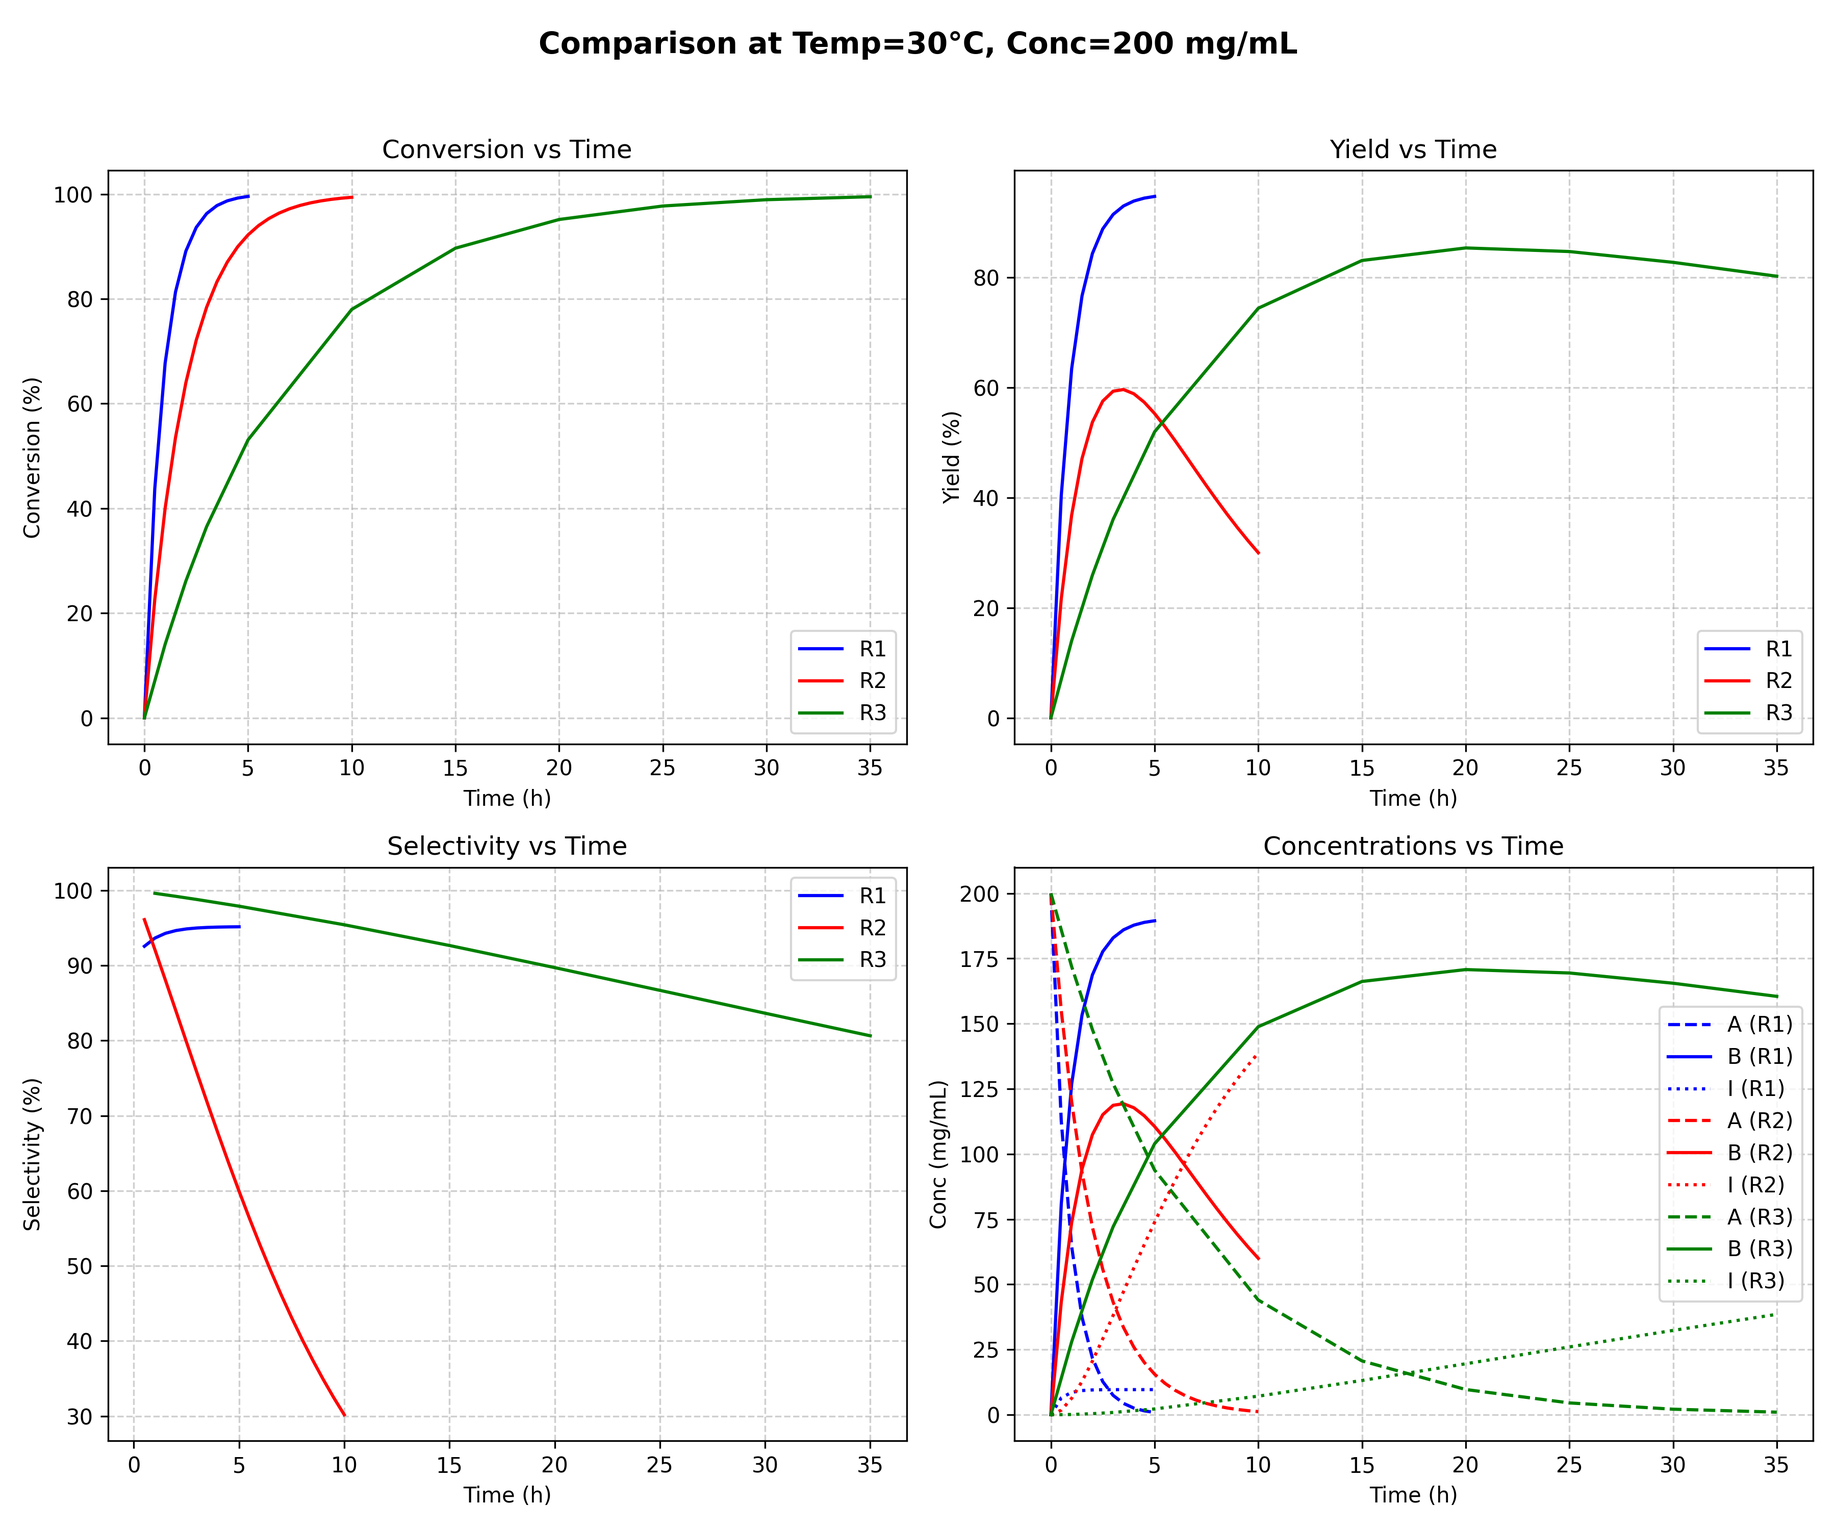
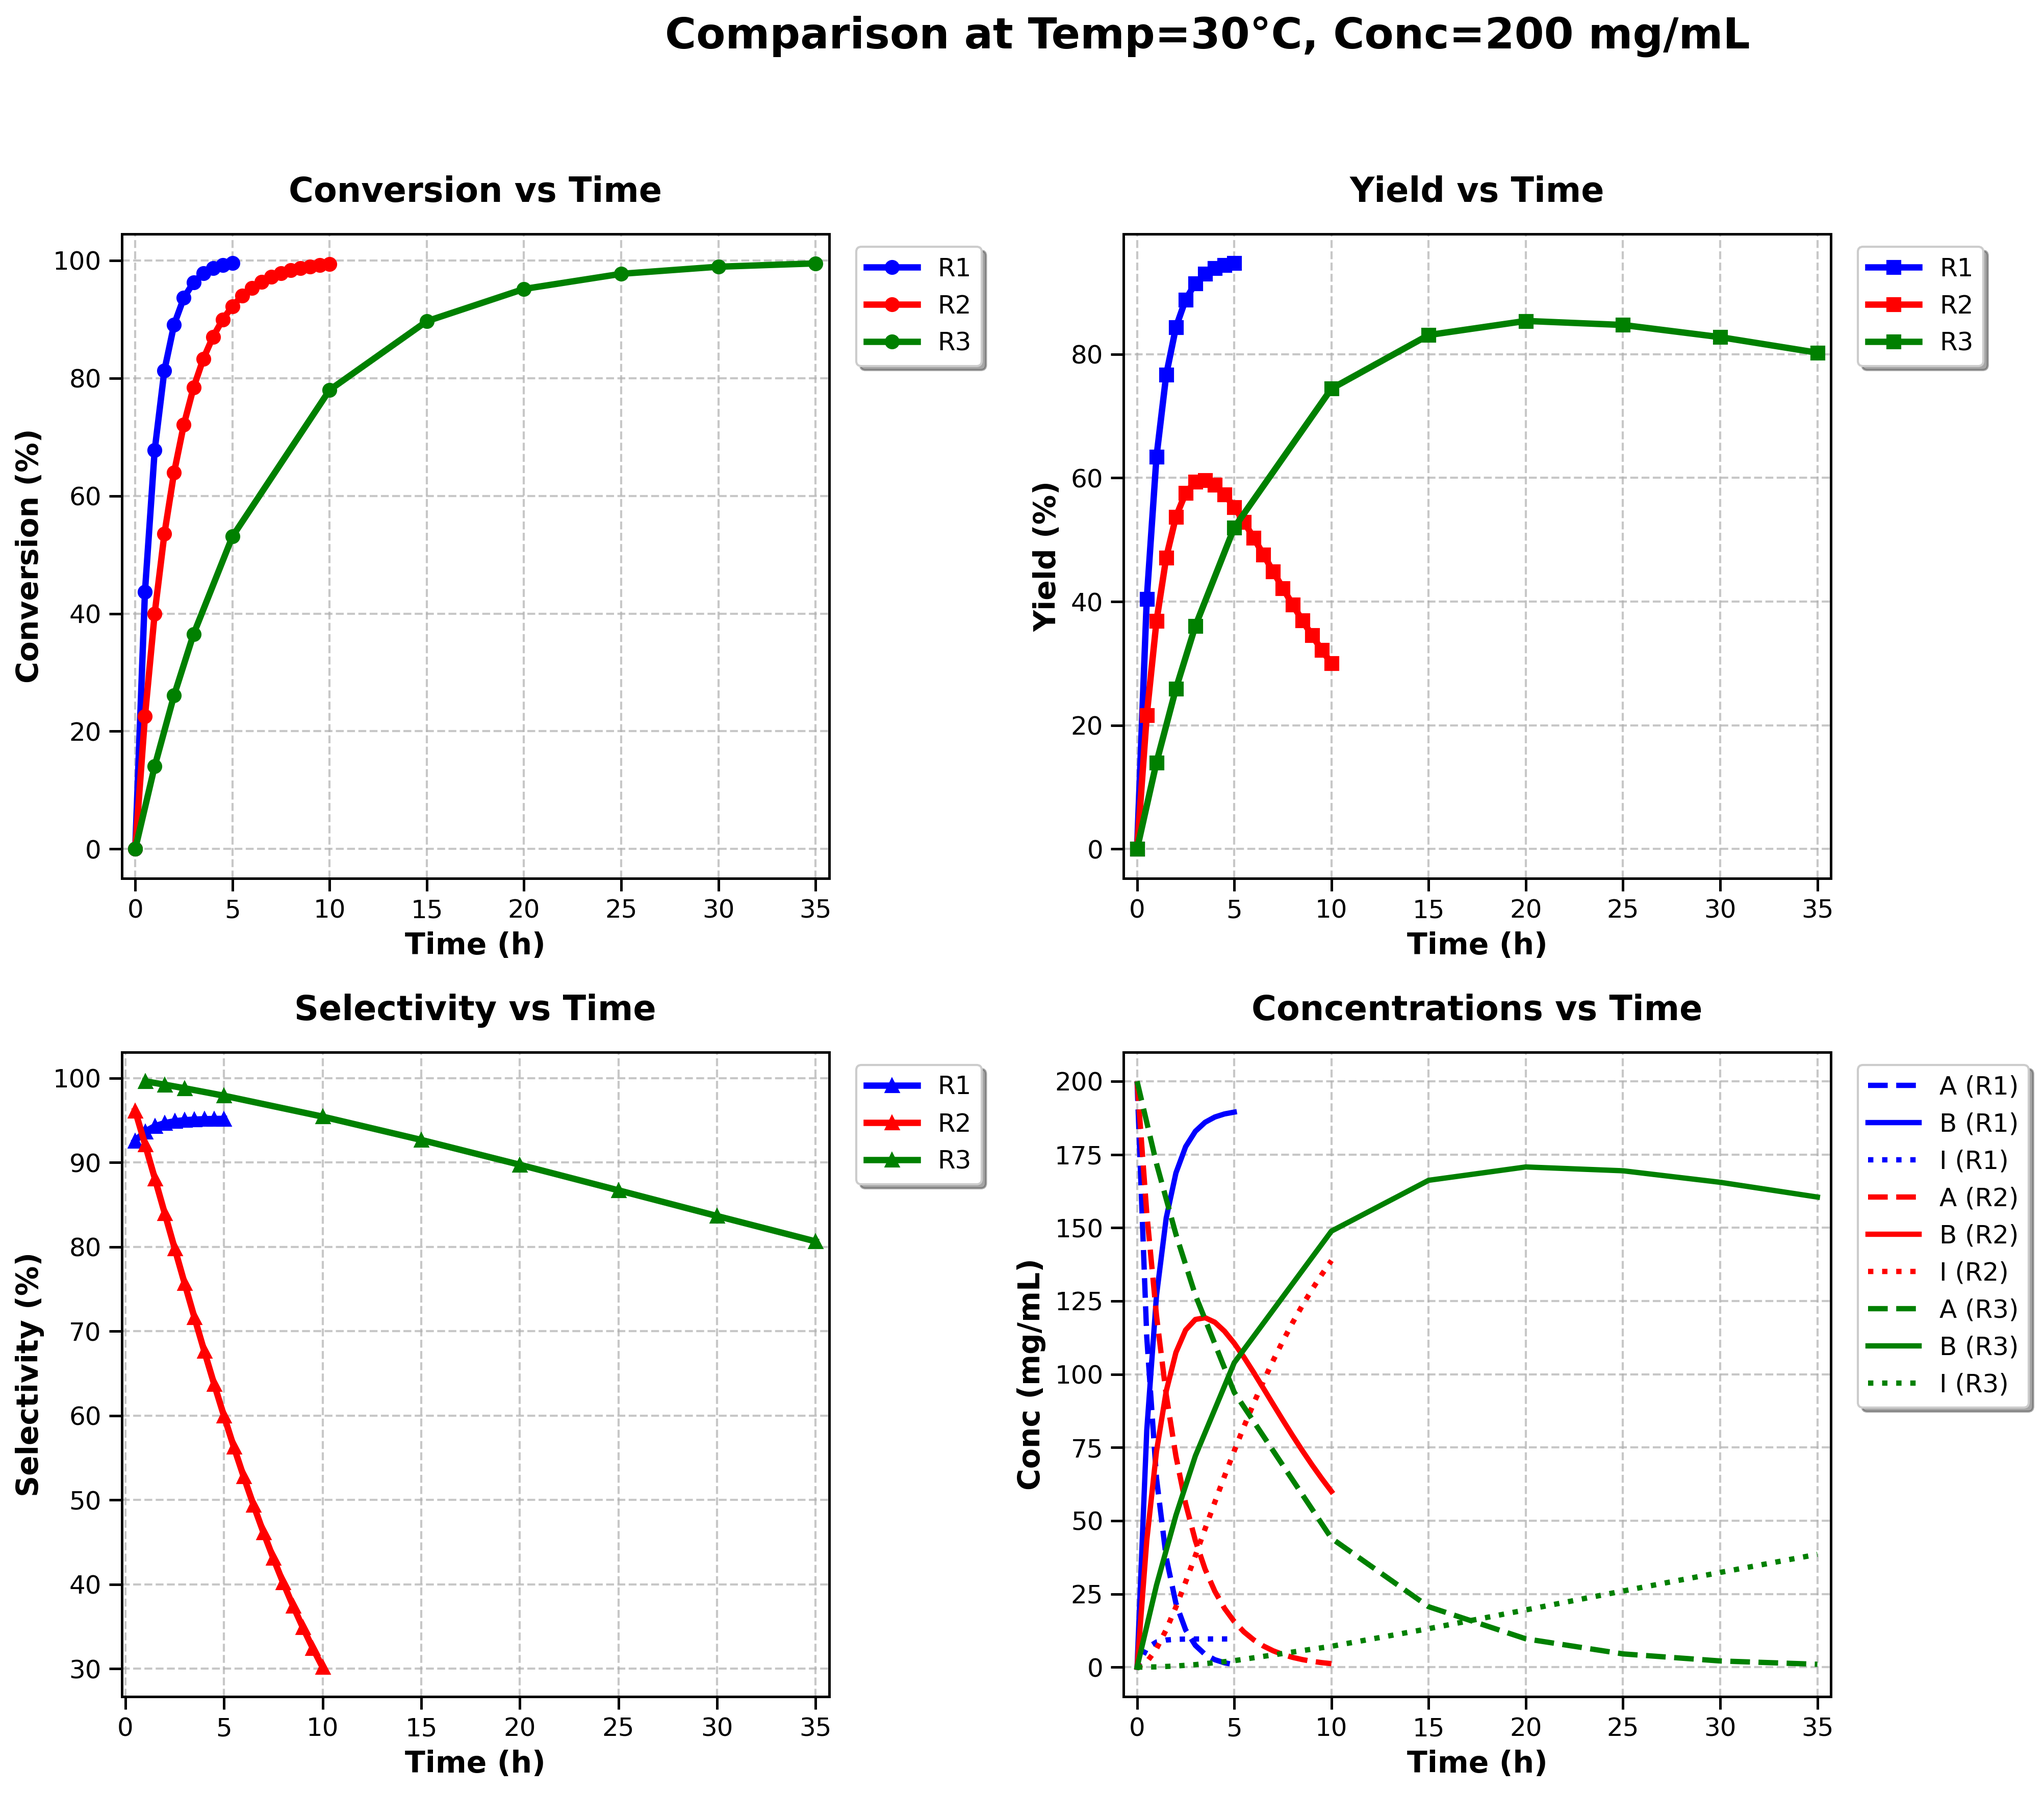
Enhanced visualization readability - increased font sizes, larger graphs, and improved styling
- Increased base font size from 12-14 to 16-18 for better readability
- Enlarged graph dimensions: individual plots (12x10  16x12), comprehensive plots (24x16  28x20)
- Enhanced line thickness (1.5  3.0) and added markers for better data visibility
- Improved legends with shadows, fancy boxes, and better positioning
- Added professional styling: bold fonts, consistent colors, enhanced grids
- Updated all comparison plots (15 total) with new readability standards
- Upgraded visualization exports to 300 DPI with bbox_inches='tight' for presentations
- Maintained consistent color scheme: R1=Green, R2=Red, R3=Blue across all visualizations

diff --git a/plot_reactions.py b/plot_reactions.py
@@ -2,6 +2,19 @@ import pandas as pd
 import matplotlib.pyplot as plt
 import os
 
+# Set matplotlib parameters for better readability
+plt.rcParams.update({
+    'font.size': 14,           # Base font size
+    'axes.titlesize': 16,      # Subplot titles
+    'axes.labelsize': 14,      # Axis labels
+    'xtick.labelsize': 12,     # X-axis tick labels
+    'ytick.labelsize': 12,     # Y-axis tick labels
+    'legend.fontsize': 12,     # Legend
+    'figure.titlesize': 18,    # Main title
+    'lines.linewidth': 2.5,    # Line thickness
+    'grid.linewidth': 1.0,     # Grid line thickness
+    'axes.linewidth': 1.2      # Axes border thickness
+})
 
 # COMPARISON PLOTS
 
@@ -28,8 +41,8 @@ colors = {"R1":"blue", "R2":"red", "R3":"green"}
 pairs = sorted(set(zip(data["R1"]["Temp_C"], data["R1"]["A0_mgml"])))
 
 for (T, C0) in pairs:
-    fig, axes = plt.subplots(2, 2, figsize=(12, 10))
-    fig.suptitle(f"Comparison at Temp={T}°C, Conc={C0} mg/mL", fontsize=14, fontweight="bold")
+    fig, axes = plt.subplots(2, 2, figsize=(16, 12))  # Increased from (12, 10)
+    fig.suptitle(f"Comparison at Temp={T}°C, Conc={C0} mg/mL", fontsize=20, fontweight="bold", y=0.98)
 
     # Loop reactions
     for rxn in ["R1","R2","R3"]:
@@ -41,37 +54,53 @@ for (T, C0) in pairs:
         
         # Conversion vs Time
         axes[0,0].plot(subset["Time_h"], subset["Conversion_pct"], 
-                       label=rxn, color=colors[rxn])
+                       label=rxn, color=colors[rxn], linewidth=3, marker='o', markersize=6)
         
         # Yield vs Time
         axes[0,1].plot(subset["Time_h"], subset["Yield_pct"], 
-                       label=rxn, color=colors[rxn])
+                       label=rxn, color=colors[rxn], linewidth=3, marker='s', markersize=6)
         
         # Selectivity vs Time
         axes[1,0].plot(subset["Time_h"], subset["Selectivity_pct"], 
-                       label=rxn, color=colors[rxn])
+                       label=rxn, color=colors[rxn], linewidth=3, marker='^', markersize=6)
         
         # Concentrations vs Time (A, B, I)
         axes[1,1].plot(subset["Time_h"], subset["A_mgml"], 
-                       label=f"A ({rxn})", linestyle="--", color=colors[rxn])
+                       label=f"A ({rxn})", linestyle="--", color=colors[rxn], linewidth=2.5)
         axes[1,1].plot(subset["Time_h"], subset["B_mgml"], 
-                       label=f"B ({rxn})", linestyle="-", color=colors[rxn])
+                       label=f"B ({rxn})", linestyle="-", color=colors[rxn], linewidth=2.5)
         axes[1,1].plot(subset["Time_h"], subset["I_mgml"], 
-                       label=f"I ({rxn})", linestyle=":", color=colors[rxn])
+                       label=f"I ({rxn})", linestyle=":", color=colors[rxn], linewidth=2.5)
     
-    # Titles & labels
-    axes[0,0].set_title("Conversion vs Time"); axes[0,0].set_xlabel("Time (h)"); axes[0,0].set_ylabel("Conversion (%)")
-    axes[0,1].set_title("Yield vs Time"); axes[0,1].set_xlabel("Time (h)"); axes[0,1].set_ylabel("Yield (%)")
-    axes[1,0].set_title("Selectivity vs Time"); axes[1,0].set_xlabel("Time (h)"); axes[1,0].set_ylabel("Selectivity (%)")
-    axes[1,1].set_title("Concentrations vs Time"); axes[1,1].set_xlabel("Time (h)"); axes[1,1].set_ylabel("Conc (mg/mL)")
+    # Titles & labels with larger fonts
+    axes[0,0].set_title("Conversion vs Time", fontsize=16, fontweight='bold', pad=15)
+    axes[0,0].set_xlabel("Time (h)", fontsize=14, fontweight='bold')
+    axes[0,0].set_ylabel("Conversion (%)", fontsize=14, fontweight='bold')
     
-    # Legends
+    axes[0,1].set_title("Yield vs Time", fontsize=16, fontweight='bold', pad=15)
+    axes[0,1].set_xlabel("Time (h)", fontsize=14, fontweight='bold')
+    axes[0,1].set_ylabel("Yield (%)", fontsize=14, fontweight='bold')
+    
+    axes[1,0].set_title("Selectivity vs Time", fontsize=16, fontweight='bold', pad=15)
+    axes[1,0].set_xlabel("Time (h)", fontsize=14, fontweight='bold')
+    axes[1,0].set_ylabel("Selectivity (%)", fontsize=14, fontweight='bold')
+    
+    axes[1,1].set_title("Concentrations vs Time", fontsize=16, fontweight='bold', pad=15)
+    axes[1,1].set_xlabel("Time (h)", fontsize=14, fontweight='bold')
+    axes[1,1].set_ylabel("Conc (mg/mL)", fontsize=14, fontweight='bold')
+    
+    # Enhanced legends and grids
     for ax in axes.flatten():
-        ax.legend()
-        ax.grid(True, linestyle="--", alpha=0.6)
+        ax.legend(fontsize=12, frameon=True, fancybox=True, shadow=True, 
+                 bbox_to_anchor=(1.02, 1), loc='upper left')
+        ax.grid(True, linestyle="--", alpha=0.7, linewidth=1)
+        ax.tick_params(axis='both', which='major', labelsize=12, width=1.2, length=6)
+        # Add some padding to the axes
+        ax.margins(x=0.02, y=0.05)
     
-    plt.tight_layout(rect=[0, 0, 1, 0.96])
-    plt.savefig(f"{outdir}/Comparison_T{T}_C{C0}.png", dpi=300)
+    plt.tight_layout(rect=[0, 0, 0.85, 0.95])  # Adjusted for larger legends
+    plt.savefig(f"{outdir}/Comparison_T{T}_C{C0}.png", dpi=300, bbox_inches='tight', 
+                facecolor='white', edgecolor='none')
     plt.close()
 
 print(f"## All plots saved in folder: {outdir}")

diff --git a/visualize_improved_results.py b/visualize_improved_results.py
@@ -14,23 +14,26 @@ df_overall = pd.read_excel('Comprehensive_Reaction_Analysis.xlsx', sheet_name='O
 reaction_order = ['R1', 'R2', 'R3']
 df_overall = df_overall.set_index('reaction').reindex(reaction_order).reset_index()
 
-# Set global font sizes
+# Set global font sizes for better readability
 plt.rcParams.update({
-    'font.size': 14,
-    'axes.titlesize': 16,
-    'axes.labelsize': 14,
-    'xtick.labelsize': 12,
-    'ytick.labelsize': 12,
-    'legend.fontsize': 12,
-    'figure.titlesize': 18
+    'font.size': 16,           # Increased base font size
+    'axes.titlesize': 18,      # Increased subplot titles
+    'axes.labelsize': 16,      # Increased axis labels
+    'xtick.labelsize': 14,     # Increased X-axis tick labels
+    'ytick.labelsize': 14,     # Increased Y-axis tick labels
+    'legend.fontsize': 14,     # Increased legend
+    'figure.titlesize': 22,    # Increased main title
+    'lines.linewidth': 3.0,    # Thicker lines
+    'grid.linewidth': 1.2,     # Thicker grid lines
+    'axes.linewidth': 1.5      # Thicker axes border
 })
 
 # ========================================
 # IMAGE 1: ALL 6 COMPARISON PLOTS
 # ========================================
 
-fig1 = plt.figure(figsize=(24, 16))
-fig1.suptitle('COMPREHENSIVE REACTION PERFORMANCE COMPARISON', fontsize=20, fontweight='bold', y=0.95)
+fig1 = plt.figure(figsize=(28, 20))  # Increased from (24, 16)
+fig1.suptitle('COMPREHENSIVE REACTION PERFORMANCE COMPARISON', fontsize=24, fontweight='bold', y=0.95)
 
 # Define consistent colors for R1, R2, R3
 colors = ['#2E8B57', '#CD853F', '#B22222']  # Green, Orange, Red
@@ -39,28 +42,30 @@ reactions = df_overall['reaction'].tolist()
 # 1. Overall Score Comparison
 ax1 = plt.subplot(2, 3, 1)
 scores = df_overall['overall_score'].tolist()
-bars = plt.bar(reactions, scores, color=colors, width=0.6)
-plt.title('Overall Performance Scores\n(Higher = Better)', fontweight='bold', fontsize=16)
-plt.ylabel('Score', fontsize=14)
+bars = plt.bar(reactions, scores, color=colors, width=0.6, edgecolor='black', linewidth=2)
+plt.title('Overall Performance Scores\n(Higher = Better)', fontweight='bold', fontsize=18, pad=20)
+plt.ylabel('Score', fontsize=16, fontweight='bold')
 plt.ylim(0, max(scores) * 1.2)
+plt.grid(True, alpha=0.3, axis='y')
 
-# Add score values on bars
+# Add score values on bars with larger font
 for bar, score in zip(bars, scores):
     plt.text(bar.get_x() + bar.get_width()/2, bar.get_height() + 0.05, 
-             f'{score:.3f}', ha='center', va='bottom', fontweight='bold', fontsize=12)
+             f'{score:.3f}', ha='center', va='bottom', fontweight='bold', fontsize=14)
 
 # 2. Selectivity Comparison
 ax2 = plt.subplot(2, 3, 2)
 selectivities = df_overall['avg_selectivity'].tolist()
-bars = plt.bar(reactions, selectivities, color=colors, width=0.6)
-plt.title('Average Selectivity\n(Priority #1)', fontweight='bold', fontsize=16)
-plt.ylabel('Selectivity (%)', fontsize=14)
+bars = plt.bar(reactions, selectivities, color=colors, width=0.6, edgecolor='black', linewidth=2)
+plt.title('Average Selectivity\n(Priority #1)', fontweight='bold', fontsize=18, pad=20)
+plt.ylabel('Selectivity (%)', fontsize=16, fontweight='bold')
 plt.ylim(0, 100)
+plt.grid(True, alpha=0.3, axis='y')
 
-# Add values on bars
+# Add values on bars with larger font
 for bar, sel in zip(bars, selectivities):
     plt.text(bar.get_x() + bar.get_width()/2, bar.get_height() + 1, 
-             f'{sel:.1f}%', ha='center', va='bottom', fontweight='bold', fontsize=12)
+             f'{sel:.1f}%', ha='center', va='bottom', fontweight='bold', fontsize=14)
 
 # 3. Temperature & Concentration Sensitivity
 ax3 = plt.subplot(2, 3, 3)
